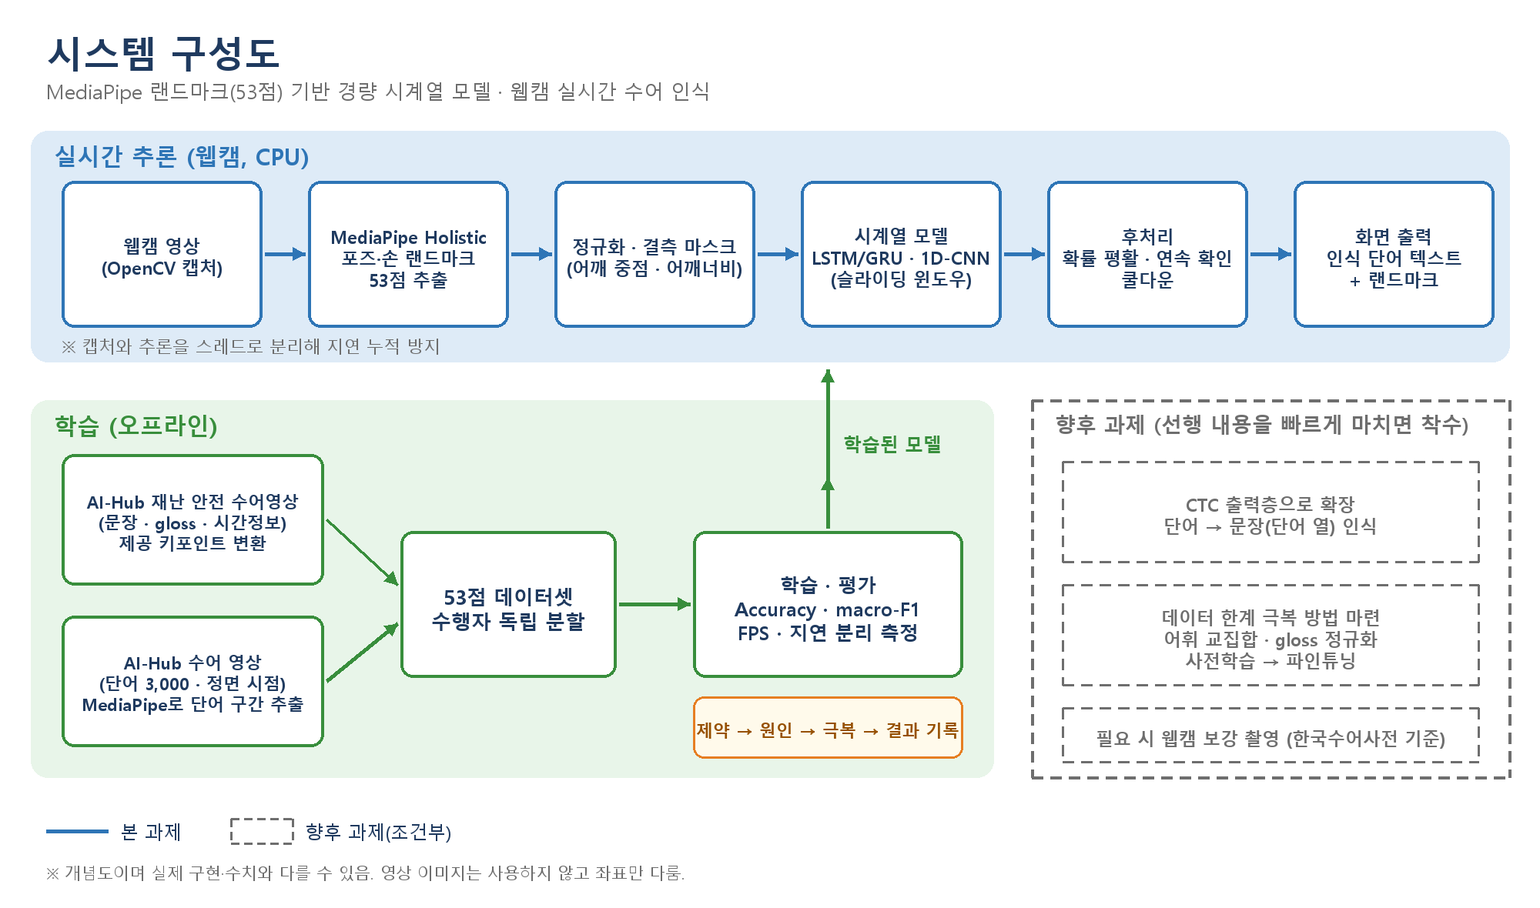
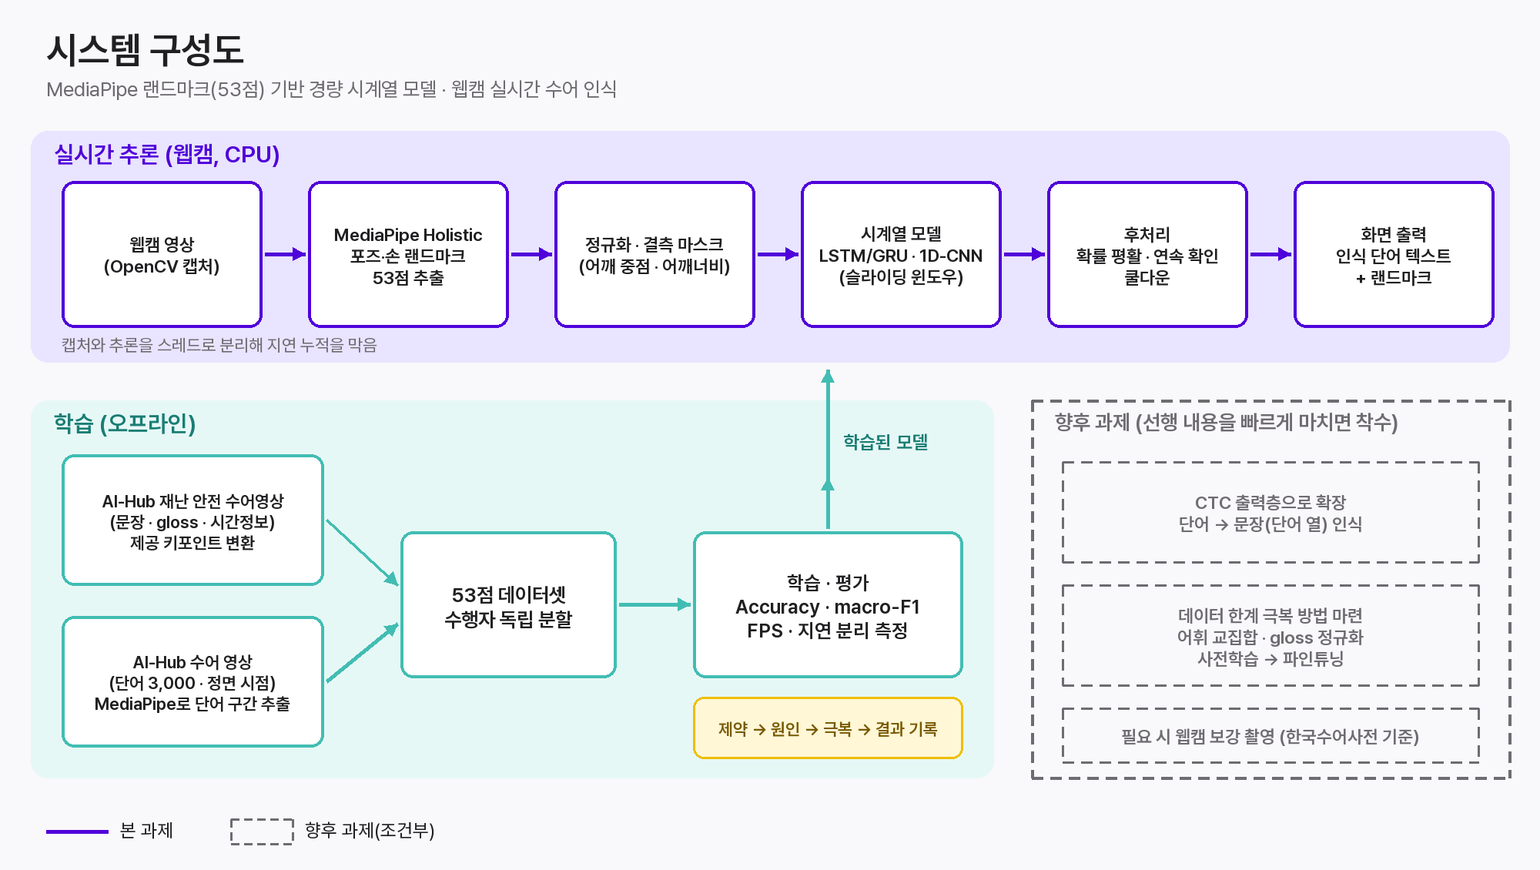
docs(sign-language): 주차별 계획을 구체화하고 그림을 MAP 디자인으로 교체
튜터링 활동 계획과 일정 계획을 주차별 세부 작업·측정·산출물로 다시 썼고 칸이 좁을 때를
위한 짧은 판을 추가했다. 그림은 MAP 클라이언트의 색·글꼴(Pretendard)로 다시 그리고
경고 문구를 제거했으며, 측정값처럼 보이던 예시 숫자를 목표값으로 바꿨다. MediaPipe
complexity 불일치를 미결 위험으로 기록했다.

diff --git a/docs/sign-language/신청서-초안-2026-09-20.md b/docs/sign-language/신청서-초안-2026-09-20.md
@@ -13,14 +13,25 @@
 
 | 주차 | 신청서에 쓴 원문 | 수정안 |
 |---|---|---|
-| 1 | MediaPipe Holistic 파이프라인 환경 구축, 모델 아키텍처 설계 및 환경 구축 | MediaPipe Holistic 추출 파이프라인 구축(포즈·손 53점, 정규화, 결측 마스크), 재난 안전 수어영상 제공 키포인트의 변환기 구현 및 수어 영상 정면 시점 랜드마크 추출 시작, 모델 아키텍처 설계 |
-| 2 | AI-HUB '재난 안전 정보 전달을 위한 수어영상 데이터'와 '수어 영상' 데이터셋 전처리 및 학습 진행 | 두 데이터셋 전처리 완료, 단어 클래스 확정, 수행자 독립 분할, LSTM/GRU·1D-CNN 베이스라인 학습 |
-| 3 | 모델 간 Accuracy, F1-score, FPS, Latency 벤치마킹 및 성능 개선 | 모델 간 Accuracy·macro-F1·혼동행렬 및 FPS·Latency(추출/모델/전체 분리 측정) 벤치마킹, 성능 개선 **(중간점검)** |
-| 4 | 뉴스 등 외부 영상자료를 기반으로 실전적인 평가 진행 및 성능 개선 | 뉴스 등 외부 영상 기반 실전 평가 및 성능 개선, 슬라이딩 윈도우·확정 규칙 튜닝 |
-| 5 | 실시간 웹캠 연동 UI 데모 구축, 연속 동작 인식 시퀀스 후처리 | (변경 없음) |
-| 6 | 최종 버그 수정, 출품용 보고서 작성 및 시연 영상 제작 | 최종 성능 검증 및 버그 수정, 출품용 보고서·시연 영상 제작. 1~5주차를 앞당겨 마친 경우 향후 과제(문장 단위 단어 열 인식, CTC) 사전 실험 착수 |
+| 1 | MediaPipe Holistic 파이프라인 환경 구축, 모델 아키텍처 설계 및 환경 구축 | MediaPipe Holistic으로 상체 11점·양손 42점(53점)을 뽑아 정규화·결측 마스크와 함께 저장하는 추출기 구현. 재난 안전 수어영상의 제공 키포인트(XML)를 같은 53점으로 바꾸는 변환기를 구현하고 더 많은 수행자로 좌표 일치를 재검증. 수어 영상 정면 시점의 단어 구간 추출 시작(야간 실행). 모델 입출력 구조 설계 |
+| 2 | AI-HUB '재난 안전 정보 전달을 위한 수어영상 데이터'와 '수어 영상' 데이터셋 전처리 및 학습 진행 | 결측 처리·고정 길이 리샘플·gloss 표기 정리 후 단어 클래스 확정. 수행자 기준 학습·검증·시험 분할 파일 생성. LSTM/GRU와 1D-CNN 베이스라인을 같은 조건으로 학습하고 CPU 학습 시간 측정 |
+| 3 | 모델 간 Accuracy, F1-score, FPS, Latency 벤치마킹 및 성능 개선 | 두 모델을 시드 3개·같은 탐색 예산으로 비교(Accuracy·macro-F1·혼동행렬). 지연을 추출/모델/전체로 나눠 반복 측정해 FPS 산출. 혼동 단어 쌍 분석과 증강 전후 비교. 중간점검 결과물 정리 **(중간점검)** |
+| 4 | 뉴스 등 외부 영상자료를 기반으로 실전적인 평가 진행 및 성능 개선 | 뉴스 등 외부 수어 영상으로 실전 평가와 실패 사례 분석. 팀원이 단어를 연달아 수행한 연속 검증 영상을 만들어 슬라이딩 윈도우와 확정 규칙(평활·임계값·연속 확인·쿨다운)을 결정 |
+| 5 | 실시간 웹캠 연동 UI 데모 구축, 연속 동작 인식 시퀀스 후처리 | 캡처·추론 스레드를 분리하고 최신 프레임만 처리하는 실시간 웹캠 데모 구축(인식 단어·랜드마크·FPS·지연 표시). 연속 동작 인식 시퀀스 후처리(동작 게이팅 포함). 팀원 3명이 각자 노트북 웹캠으로 시험하고 오탐 기록 |
+| 6 | 최종 버그 수정, 출품용 보고서 작성 및 시연 영상 제작 | 전체 결과를 같은 조건으로 재실행해 표를 확정하고 버그 수정, 재현 문서 정리. 환경 제약·극복 방법 표 정리, 최종보고서(텍스트형·PPT형)와 시연 영상 제작. 1~5주차를 앞당겨 마쳤다면 향후 과제(어휘 교집합 측정, gloss 표기 정규화, CTC 사전 실험) 착수 |
 
-변경 이유(대화에서 확정된 내용): 1주차는 데이터 변환 방식과 53점을 결정했고, 2주차는 수행자 독립 분할과 클래스 확정을 명시하며, 3주차는 지연을 세 구간으로 분리해 측정하기로 했고, 4주차는 연속 검증에 필요한 윈도우·확정 규칙을 넣었고, 6주차는 향후 과제 착수 조건을 넣었다.
+변경 이유: 사용자 지시(2026-09-20)로 "시각화보다 실제로 할 일을 구체적으로" 쓰는 쪽에 집중했다. 각 주차에 (무엇을 만들고 / 무엇을 비교하고 / 무엇을 측정하는지)를 문장으로 넣었다. 대화에서 확정된 내용도 반영했다: 1주차 데이터 변환 방식과 53점, 2주차 수행자 독립 분할과 클래스 확정, 3주차 지연의 세 구간 분리 측정, 4주차 연속 검증 영상과 윈도우·확정 규칙, 5주차 스레드 분리와 동작 게이팅, 6주차 향후 과제 착수 조건.
+
+**칸 크기를 모르므로 두 가지 길이를 준비했다.** 위 표는 구체판이다. 칸이 좁으면 아래 짧은 판을 쓴다.
+
+| 주차 | 짧은 판 |
+|---|---|
+| 1주차 | 53점 추출기·제공 키포인트 변환기 구현, 좌표 일치 재검증, 정면 단어 구간 추출 시작 |
+| 2주차 | 결측 처리·클래스 확정, 수행자 기준 분할, LSTM/GRU·1D-CNN 베이스라인 학습 |
+| 3주차 | 두 모델 비교(정확도·macro-F1)와 지연 분리 측정(추출/모델/전체), 성능 개선 (중간점검) |
+| 4주차 | 외부 수어 영상 평가, 연속 검증 영상으로 윈도우·확정 규칙 결정 |
+| 5주차 | 스레드 분리 실시간 웹캠 데모, 시퀀스 후처리, 팀원 웹캠 시험 |
+| 6주차 | 결과 재실행·표 확정, 제약·극복 표, 최종보고서·시연 영상, (조기 완료 시) 향후 과제 착수 |
 
 ---
 
@@ -34,7 +45,7 @@
 > | 확인 항목 | 결과 | 계획에 반영한 것 |
 > |---|---|---|
 > | 데이터 규모 | 재난·날씨 수어 영상 약 20만 건(고유 한국어 문장 약 14.9만), 단어 3,000개(정면 클립 약 4.8만) | 단어 인식은 필수 목표로, 문장 인식은 규모가 충분해 향후 과제로 둠 |
-> | MediaPipe CPU 처리속도 | 1프로세스 초당 19.5~24프레임, 병렬 합계 초당 45~50프레임에서 포화 | 실시간 목표를 30 FPS가 아닌 15 FPS로 설정, complexity 0 사용(24 fps, 약 23% 향상) |
+> | MediaPipe CPU 처리속도 | 1프로세스 초당 19.5~24프레임, 병렬 합계 초당 45~50프레임에서 포화 | 실시간 목표를 30 FPS가 아닌 15 FPS로 설정. 모델 크기 설정(complexity)에 따라 약 23% 차이가 나는 것을 확인했고, 학습 데이터 추출과 실시간 추론에 같은 설정을 쓰도록 진행 시 확정 |
 > | 전체 영상 재추출 소요 | 재난 수어 약 1억 3,400만 프레임 → 약 34일 소요(계산) | 재추출 대신 **제공 키포인트를 변환**해 사용, 단어 데이터는 정면 시점의 단어 구간만 추출 |
 > | 제공 좌표와 MediaPipe 좌표의 일치 | 손 크기 대비 오차 중앙값 0.08~0.10, 손 검출률 96~97% (27영상, 수행자 1명) | 변환 사용 가능성 확인. 표본이 작아 1주차에 더 넓게 재검증 |
 > | 수행자 분포 | 검증 데이터 20,091개에서 수행자 51명, 문장의 99.97%를 한 명이 수어, 상위 5명이 43.6% | 수행자 독립 분할 적용, 수행자별 파일 수 균형 고려 |
@@ -56,16 +67,50 @@
 
 ## B-3. 일정 계획
 
-> | 주차 | 내용 | 산출물 |
-> |---|---|---|
-> | 1 | 추출 파이프라인 구축(53점·정규화·결측 마스크), 제공 키포인트 변환기, 정면 시점 단어 구간 추출 시작, 모델 설계 | 추출·변환 파이프라인, 설계 문서 |
-> | 2 | 두 데이터셋 전처리 완료, 단어 클래스 확정, 수행자 독립 분할, 베이스라인 학습 | 전처리 데이터, 분할 파일, 베이스라인 결과 |
-> | 3 | 모델 간 정확도·속도 벤치마킹, 성능 개선 **(중간점검)** | 벤치마크 표, 3주차 결과물 |
-> | 4 | 외부 영상 실전 평가, 성능 개선, 윈도우·확정 규칙 튜닝 | 외부 평가 결과, 연속 검증 영상 |
-> | 5 | 실시간 웹캠 UI 데모, 연속 동작 인식 시퀀스 후처리 | 실시간 데모 |
-> | 6 | 최종 검증·버그 수정, 보고서·시연 영상. 앞당겨 마친 경우 향후 과제 사전 실험 착수 | 최종보고서, 시연 영상, (착수 시) 사전 실험 결과 |
+> ○ 사전 조건: 1주차 전에 수어 영상의 정면 시점 원천 영상과 재난 수어영상의 제공 키포인트를 내려받는다. 내려받기 전에도 이미 가진 샘플(재난 수어 영상 27개, 수어 영상 100개)로 추출기와 변환기 개발을 시작한다.
 >
-> ○ 진행 원칙: 주 1회 2시간 자체 미팅, 매주 활동보고서 작성. 1~5주차 내용을 계획보다 빠르게 마친 경우 향후 과제에 착수하고, 그렇지 않으면 6주 안에는 본 과제의 목표만 완료한다.
+> [1주차] 추출·변환 파이프라인
+> - MediaPipe Holistic으로 상체 11점(코·눈·귀·어깨·팔꿈치·손목)과 양손 42점을 뽑아 프레임별 좌표와 검출 여부(마스크)로 저장하고, 어깨 중점 기준 이동·어깨너비 기준 스케일 정규화를 적용한다.
+> - 재난 수어영상의 제공 키포인트(XML)를 같은 53점 형식으로 바꾸는 변환기를 만들고, 사전 조사(27영상·수행자 1명)보다 넓은 표본(수행자를 늘려)으로 좌표 일치를 다시 검증한다.
+> - 수어 영상의 정면 시점에서 라벨이 붙은 단어 구간(앞뒤 0.5초)만 추출하는 작업을 시작해 야간에 돌린다(약 18시간 예상, 추정).
+> - 입력(시간 × 53점 좌표 + 마스크)과 출력(단어 클래스)을 정하고 모델 구조(LSTM/GRU, 1D-CNN)를 설계한다.
+> - 산출물: 추출·변환 코드, 좌표 검증 결과, 모델 설계 문서
+>
+> [2주차] 전처리·분할·베이스라인
+> - 결측 프레임 처리(짧은 결측은 보간, 긴 결측은 이전 값 유지, 손이 너무 많이 빠진 클립은 제외)와 고정 길이 리샘플을 적용한다. 세부 기준은 진행 시 확정한다.
+> - 수행자마다 다르게 적힌 단어 표기를 정리하고, 클래스당 최소 클립 수를 기준으로 단어 클래스를 확정한다(개수는 진행 시 확정).
+> - 수행자 기준으로 학습·검증·시험 집합을 나누고(수행자별 파일 수가 크게 치우쳐 있어 균형을 고려) 분할 파일을 저장해 모든 모델이 같은 분할을 쓰게 한다.
+> - LSTM/GRU와 1D-CNN을 같은 입력·분할·조기 종료·시드로 학습하고 CPU에서 에폭당 학습 시간을 측정한다.
+> - 산출물: 전처리 데이터, 분할 파일, 베이스라인 결과(macro-F1, 학습 시간)
+>
+> [3주차] 벤치마킹·개선 (중간점검)
+> - 두 모델을 시드 3개, 같은 탐색 예산으로 학습해 Accuracy·macro-F1·혼동행렬을 비교한다.
+> - 지연을 MediaPipe 추출 / 모델 추론 / 전체 세 구간으로 나눠, 같은 기기·전원 조건에서 예열 후 반복 측정하고 중앙값과 95번째 백분위, FPS를 낸다.
+> - 혼동이 큰 단어 쌍을 분석하고, 증강(시간 속도 변환, 좌표 잡음, 프레임 결측)을 적용해 전후를 비교한다.
+> - 산출물: 벤치마크 표, 3주차 중간 결과물(지도교수 서류 검토용)
+>
+> [4주차] 외부 영상 평가·후처리 규칙
+> - 뉴스 등 외부 수어 영상(이용 조건 확인)에서 좌표를 뽑아 인식시키고, 사람이 붙인 정답과 비교해 실패 사례를 분석한다.
+> - 팀원이 한국수어사전 기준으로 단어를 연달아 수행한 연속 검증 영상을 찍고, 단어가 나오는 시각을 사람이 표시한다.
+> - 이 영상으로 슬라이딩 윈도우(크기·간격)와 확정 규칙(확률 평활, 임계값, 연속 확인 횟수, 쿨다운)을 바꿔 가며 정답 시각과의 일치(이벤트 F1)가 가장 좋은 값을 고른다.
+> - 산출물: 외부 영상 평가 결과, 연속 검증 영상과 정답 표, 확정된 후처리 규칙
+>
+> [5주차] 실시간 웹캠 데모
+> - OpenCV 캡처와 추론을 스레드로 나누고 최신 프레임만 처리해 지연이 쌓이지 않게 한다.
+> - 화면에 인식 단어, 랜드마크, FPS와 지연(추출/모델/전체)을 표시하는 데모를 만든다.
+> - 손이 움직이지 않는 구간은 모델에 넣지 않는 동작 게이팅을 넣고, 가만히 있을 때의 오탐 횟수를 잰다.
+> - 팀원 3명이 각자 노트북 웹캠으로 시험해 지연과 오탐을 기록한다.
+> - 산출물: 실시간 데모, 시험 기록
+>
+> [6주차] 최종 검증·보고서
+> - 전체 결과를 같은 조건으로 다시 돌려 표를 확정하고 버그를 고친다. 다른 사람이 재현할 수 있게 실행 방법을 문서로 정리한다.
+> - 환경 제약과 극복 방법 표(제약 → 원인 → 극복 후보 → 시도 → 결과)를 정리한다. 효과가 없던 방법도 기록한다.
+> - 텍스트형·PPT형 최종보고서와 시연 영상을 만든다.
+> - 1~5주차를 앞당겨 마쳤다면 향후 과제에 착수한다: 다른 데이터의 단어 집합과 인식기의 단어 집합의 교집합 측정, 단어 표기 정규화, 단어 데이터로 사전학습한 인코더에 CTC 출력층을 붙인 사전 실험.
+> - 산출물: 최종보고서 2종, 시연 영상, 제약·극복 표, (착수 시) 사전 실험 결과
+>
+> ○ 매주: 주 1회 2시간 자체 미팅, 주별 활동보고서 작성, 그 주에 마주친 제약과 시도를 제약·극복 표에 기록한다.
+> ○ 일정이 밀리는 경우: 문장 인식, 외부 영상 평가, 연속 후처리 순으로 범위를 줄이고 단어 인식과 실시간 데모는 유지한다.
 
 ## B-4. 결과 및 기대효과
 
@@ -133,6 +178,12 @@
 - **그림 4는 대표 프레임을 골라 그렸다.** 손이 서로 떨어진 프레임 295개 중 손 좌표 오차가 중앙값(0.089)인 프레임을 선택했고, 가장 잘 맞는 프레임을 고르지 않았다. 손이 겹친 프레임은 선이 뒤엉켜 읽히지 않아 처음 시도에서 제외했다. 이 조건은 그림 설명에 밝혔다.
 - 그림 1·2·4의 좌표는 636 샘플 영상 1개 프레임에서 왔고 **얼굴 이미지는 없다**(머리 위치만 원으로 표시). 그림 1은 개념도라서 실제 구현과 다를 수 있다고 적었다.
 - 그림 코드는 일회용이고 레포에는 이미지만 있다.
+
+**후속 지시 반영(2026-09-20):**
+- **경고 문구 제거(사용자 지시).** 그림 안의 "※ …실제 측정값이 아님", "…얼굴 이미지는 쓰지 않음" 같은 주석을 모두 지웠다. 그러면 그림 2의 "FPS 18 · 지연 210ms", "92%"가 실제 측정값으로 오해될 수 있어서 **예시 숫자를 없애고 목표값으로 바꿨다**("목표: 15 FPS 이상 · 지연 300ms 이내", 신뢰도는 막대만). 문구 없이도 측정값으로 읽히지 않는다. 그림 4에는 "표본: 27영상·수행자 1명"과 "두 손이 떨어진 프레임 중 오차가 중앙값 근처"라는 **사실 표기는 남겼다**(경고가 아니라 데이터 설명이어서). 이것도 지우길 원하시면 지울 수 있지만 대표 프레임 선택 조건은 밝혀 두는 것을 권한다.
+- **디자인은 MAP 클라이언트를 참조(사용자 지시).** `app_colors.dart`의 색(주색 보라 `#5000DA`, 연한 `#E9E4FF`, 배경 `#F9F8FA`, 글자 `#201F21`, 오류 빨강 `#FF1751`, 노랑·청록 보조색)과 Pretendard 글꼴을 썼고, 그림 2의 인식 단어와 기록은 MAP 채팅 말풍선 스타일로 그렸다. 다른 참고 자료는 시간상 찾아보지 않았다.
+- **6주 일정표(그림 3)는 부차적이다(사용자 지시).** 시각화보다 주차별로 할 일을 구체적으로 쓰는 쪽이 중심이며, 그림 3은 넣지 않아도 된다.
+- **사용자는 웹에서 한글(한컴독스)을 쓴다.** 붙여넣기용 텍스트를 웹 편집기에 붙이면 된다. 표 변환 메뉴가 웹 편집기에 있는지는 확인하지 못했다(없으면 표를 직접 만들어 셀에 붙임).
 
 ## 9. 조건부 데이터 보강 계획 (웹캠 자체 수집) 상세
 

diff --git a/docs/sign-language/HANDOVER.md b/docs/sign-language/HANDOVER.md
@@ -103,7 +103,7 @@
 | # | 할 일 | 비고 |
 |---|---|---|
 | 1 | **신청 마감 시각을 원문에서 확인**하도록 사용자에게 알린다 | 공지: `computer.hanyang.ac.kr/news/notice.php?ptype=view&idx=865&page=&code=notice`. 자동 요약상 마감이 2026-09-20, 연장 여부·시각 미확인. **사용자는 "11까지 제출할 생각, 아직 여유 있다"고 함**(2026-09-20 21시대에 한 말이라 오후 11시로 추정, 확인하지 않음) |
-| 2 | 사용자가 신청서 초안을 검토·수정한 뒤 hwp에 붙여 넣도록 돕는다 | 특히 6주차 문구, 사전 준비 현황 문단. **hwp는 직접 수정하지 않는다**: 이 PC에 한글이 실제로 설치돼 있지 않은 것으로 보이고(폴더 잔재만, `Hwp.exe`·자동화 등록·제거 목록·기본 앱 지정 없음) 결과를 열어 볼 수단이 없어 제출용 파일을 망가뜨릴 위험이 크다. 대신 섹션별 붙여넣기용 텍스트를 `C:\Users\rexro\Downloads\신청서_붙여넣기\`에 만들어 뒀다(초안에서 자동 생성, 초안이 바뀌면 다시 생성) |
+| 2 | 사용자가 신청서 초안을 검토·수정한 뒤 hwp에 붙여 넣도록 돕는다 | 특히 6주차 문구, 사전 준비 현황 문단. **hwp는 직접 수정하지 않는다**: 이 PC에 한글이 실제로 설치돼 있지 않은 것으로 보이고(폴더 잔재만, `Hwp.exe`·자동화 등록·제거 목록·기본 앱 지정 없음) 결과를 열어 볼 수단이 없어 제출용 파일을 망가뜨릴 위험이 크다. 대신 섹션별 붙여넣기용 텍스트를 `C:\Users\rexro\Downloads\신청서_붙여넣기\`에 만들어 뒀다(초안에서 자동 생성, 초안이 바뀌면 다시 생성). **사용자는 웹에서 한글(한컴독스)을 쓴다**(2026-09-20 확인). 그림은 MAP 클라이언트의 색·글꼴(Pretendard) 기준이고 경고 문구는 지웠다(사용자 지시). 주차별 계획은 "시각화보다 할 일을 구체적으로" 쓰도록 다시 썼다(구체판과 짧은 판 두 가지) |
 | 3 | ~~시각 자료 4종 승인받고 만들기~~ **완료**(사용자 승인 "진행하세요") | `docs/sign-language/figures/`의 PNG 4개(구성도·데모 목업·일정표·사전 검증 그림). 그림 2의 수치는 예시. 그림 코드는 임시 폴더에만 있고 레포에는 없다(재현 방법은 초안 §8) |
 | 4 | A 설계 섹션 3 제안 → 승인 → 스펙 문서 → `writing-plans` | 스펙 저장 위치 미정 |
 | 5 | 1주차 시작 전 필요한 다운로드: **103 단어 원천 영상(정면), 636 키포인트 XML** | 아직 안 받음. 크기 미확인 |
@@ -122,6 +122,7 @@
 | 7 | `augment` 필드 의미 미확인(증강본이면 표본 중복), 한국어 없는 JSON 611개 원인 미확인, CROWD 영상 fps 불균일(30·29·23·15…) | 설계 기록 §6.2 |
 | 8 | 손 좌표 비교는 수행자 1명·1개 카테고리·27영상 표본 | 일반화 주장 금지 |
 | 9 | 지원금으로 웹캠 구매 가능한지 공지에 없음 | 사업단 문의 |
+| 11 | **MediaPipe complexity 불일치:** 학습 데이터 추출(설계 초안은 complexity 1)과 실시간 추론(속도상 0이 유리)의 설정이 다르면 좌표 분포가 달라질 수 있다. 제공 키포인트와의 일치도(0.08~0.10)도 complexity 1에서 잰 값이다. 신청서 표 1에는 "진행 시 확정"이라고 썼다 | 미결. `한계와-극복-방법.md` H3-1 |
 | 10 | 다른 세션의 미추적 파일이 이 레포에 여럿 있고, 다른 세션이 문서를 옮기는 중이다(`docs/reasoning-problem/` 등) | 건드리지 않음 |
 
 ## 8. 무효였다가 고친 결론 (소급 점검 이력)

diff --git a/docs/sign-language/한계와-극복-방법.md b/docs/sign-language/한계와-극복-방법.md
@@ -32,6 +32,7 @@
 | H1 | NVIDIA GPU(CUDA) 없음. Intel Iris Xe와 Arc A350M 4GB만 있음 (실측: 사양 조회) | 학습·추론이 CPU 중심. **CPU 학습 시간은 측정하지 않았다** | ① 좌표 입력(53점×2)의 경량 모델을 쓰면 CPU 학습이 가능할 수 있음(미확인) ② 무료 GPU(H2) ③ 학습 시간을 1주차에 소규모로 먼저 측정 | ①③ 후보 |
 | H2 | 외부 GPU의 한도. **Colab 무료**: GPU 제공이 보장되지 않고, 노트북은 최대 12시간, 유휴 시 종료, 사용량 한도는 변동 (**공식 확인**, FAQ 원문). **Kaggle**: 주 30시간, GPU 세션 최대 9시간, P100 16GB 또는 T4×2 (**검색 요약**, 공식 문서 본문이 안 열려 미확인. 초기 자료는 "세션 12시간"이라 해서 **불일치**) | 하이퍼파라미터 탐색처럼 오래 걸리는 작업이 중간에 끊길 수 있음 | ① 체크포인트를 에폭마다 저장(자료) ② Kaggle 주력·Colab 보조(자료). 단 Kaggle 한도는 실제 계정에서 확인 필요 ③ 세션 한도에 맞춰 작업을 잘게 나눔 | 후보 |
 | H3 | MediaPipe Holistic CPU 속도: 1프로세스 19.5(complexity 1)~24 fps(complexity 0). 병렬은 합계 45~50 fps에서 포화 (실측) | end-to-end **30 FPS는 이 노트북에서 불가능.** 실시간 목표를 15 FPS로 낮춤 | ① **complexity 0 사용: 24 fps로 약 23% 빠름 (검증됨)** ② 640폭 축소: **기각**(효과 없음) ③ Pose+Hands 분리: **기각**(22.9 fps, 이득 없음) ④ 추론 주기와 추출 주기 분리, 프레임 건너뛰기, 스레드 분리(자료) ⑤ 손만 추출 등 더 가벼운 구성(미측정) ⑥ MediaPipe는 추적 모드에서 이후 프레임의 검출을 생략한다(검색 요약) | ①검증 ②③기각 ④⑤후보 |
+| H3-1 | **학습 데이터 추출과 실시간 추론의 MediaPipe 설정(complexity)이 다르면 좌표 분포가 달라질 수 있다.** 설계 초안은 103 추출을 complexity 1로 잡았고, 실시간 속도를 위해서는 0이 유리하다(0이 약 23% 빠름, 실측). 636 제공 키포인트와의 비교(손 오차 0.08~0.10)는 complexity 1로 잰 값이다 | 학습 때 본 좌표와 실시간 좌표의 차이로 정확도 저하 가능 | 하나로 맞춘다. 어느 쪽으로 맞출지, complexity 0에서의 XML 대비 일치도는 **아직 재지 않았다** | 후보(미결) |
 | H4 | 병렬 확장이 약함: 프로세스 4개면 약 2배, 8개면 거의 그대로 (실측) | 배치 추출 시간이 코어 수에 비례해 줄지 않음 | ① **팀원 PC 여러 대에 나눠 돌림**(기기 간 독립이라 병렬이 잘 될 수 있음, **미측정**) ② 야간 실행 | 후보 |
 | H5 | C: 여유 약 20GB (실측). D: 여유 약 1,276GB | 큰 압축 해제·캐시를 C:에 둘 수 없음 | ① D:에서만 작업 ② **디스크에 풀지 않고 스트리밍**: 54.5GB를 풀지 않고 필요한 앞부분만 읽음 (**검증됨**, 22분) | 검증됨 |
 | H6 | RAM 15.7GB (실측) | 큰 데이터를 통째로 메모리에 못 올림 | 파일마다 앞 8KB만 보관(검증됨), 배치 단위 로딩 | 검증됨/후보 |
